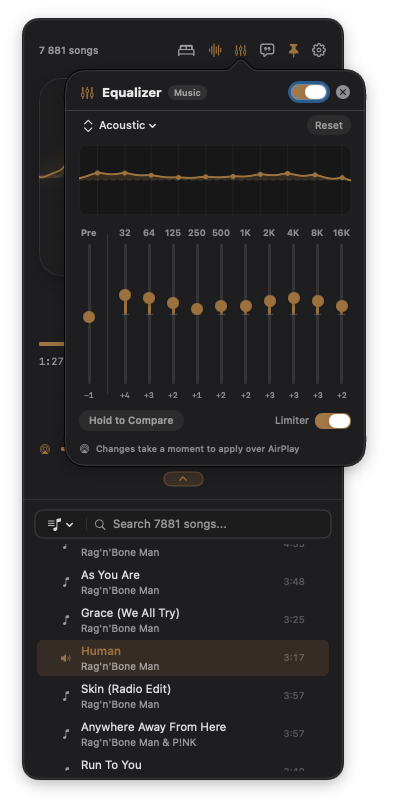
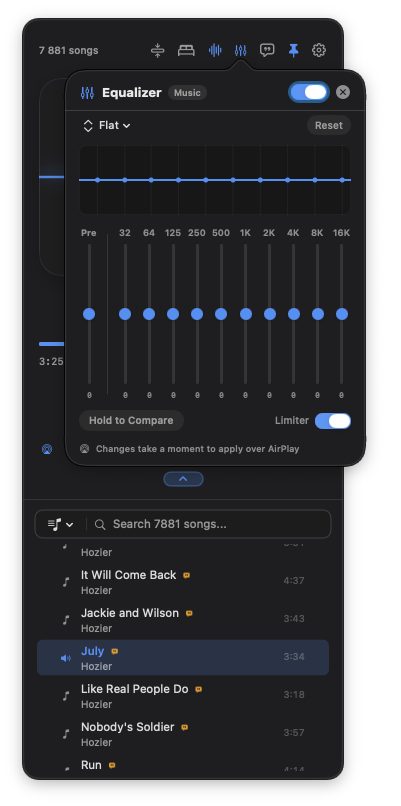
feat: add newly updated 10-band equalizer screenshot

diff --git a/index.html b/index.html
@@ -711,7 +711,7 @@
 
       <!-- Filter Controls -->
       <div class="gallery-filter">
-        <button class="filter-btn active" onclick="filterGallery('all')">All Views (12)</button>
+        <button class="filter-btn active" onclick="filterGallery('all')">All Views (13)</button>
         <button class="filter-btn" onclick="filterGallery('player')">Main Player</button>
         <button class="filter-btn" onclick="filterGallery('library')">Library Drawer</button>
         <button class="filter-btn" onclick="filterGallery('eq-lyrics')">EQ & Lyrics</button>
@@ -887,6 +887,21 @@
             <p class="gallery-item-desc">Dark interface with dual-waveform real-time oscilloscope display.</p>
           </div>
         </div>
+
+        <!-- 13. Equalizer Popover (Dark Mode) -->
+        <div class="gallery-item" data-category="eq-lyrics" onclick="openLightbox('screenshots/13-equalizer-dark.png', '10-Band Equalizer Popover (Dark Mode)')">
+          <div class="gallery-img-wrap">
+            <img src="screenshots/13-equalizer-dark.png" alt="Echo 10-band equalizer popover in dark mode" class="gallery-img">
+          </div>
+          <div class="gallery-caption">
+            <div class="gallery-item-title">
+              <span>10-Band Equalizer</span>
+              <span class="gallery-tag">Audio DSP</span>
+            </div>
+            <p class="gallery-item-desc">Octave-spaced peaking bands, Flat preset, peak limiter, and hold-to-compare.</p>
+          </div>
+        </div>
+
       </div>
     </section>
 
